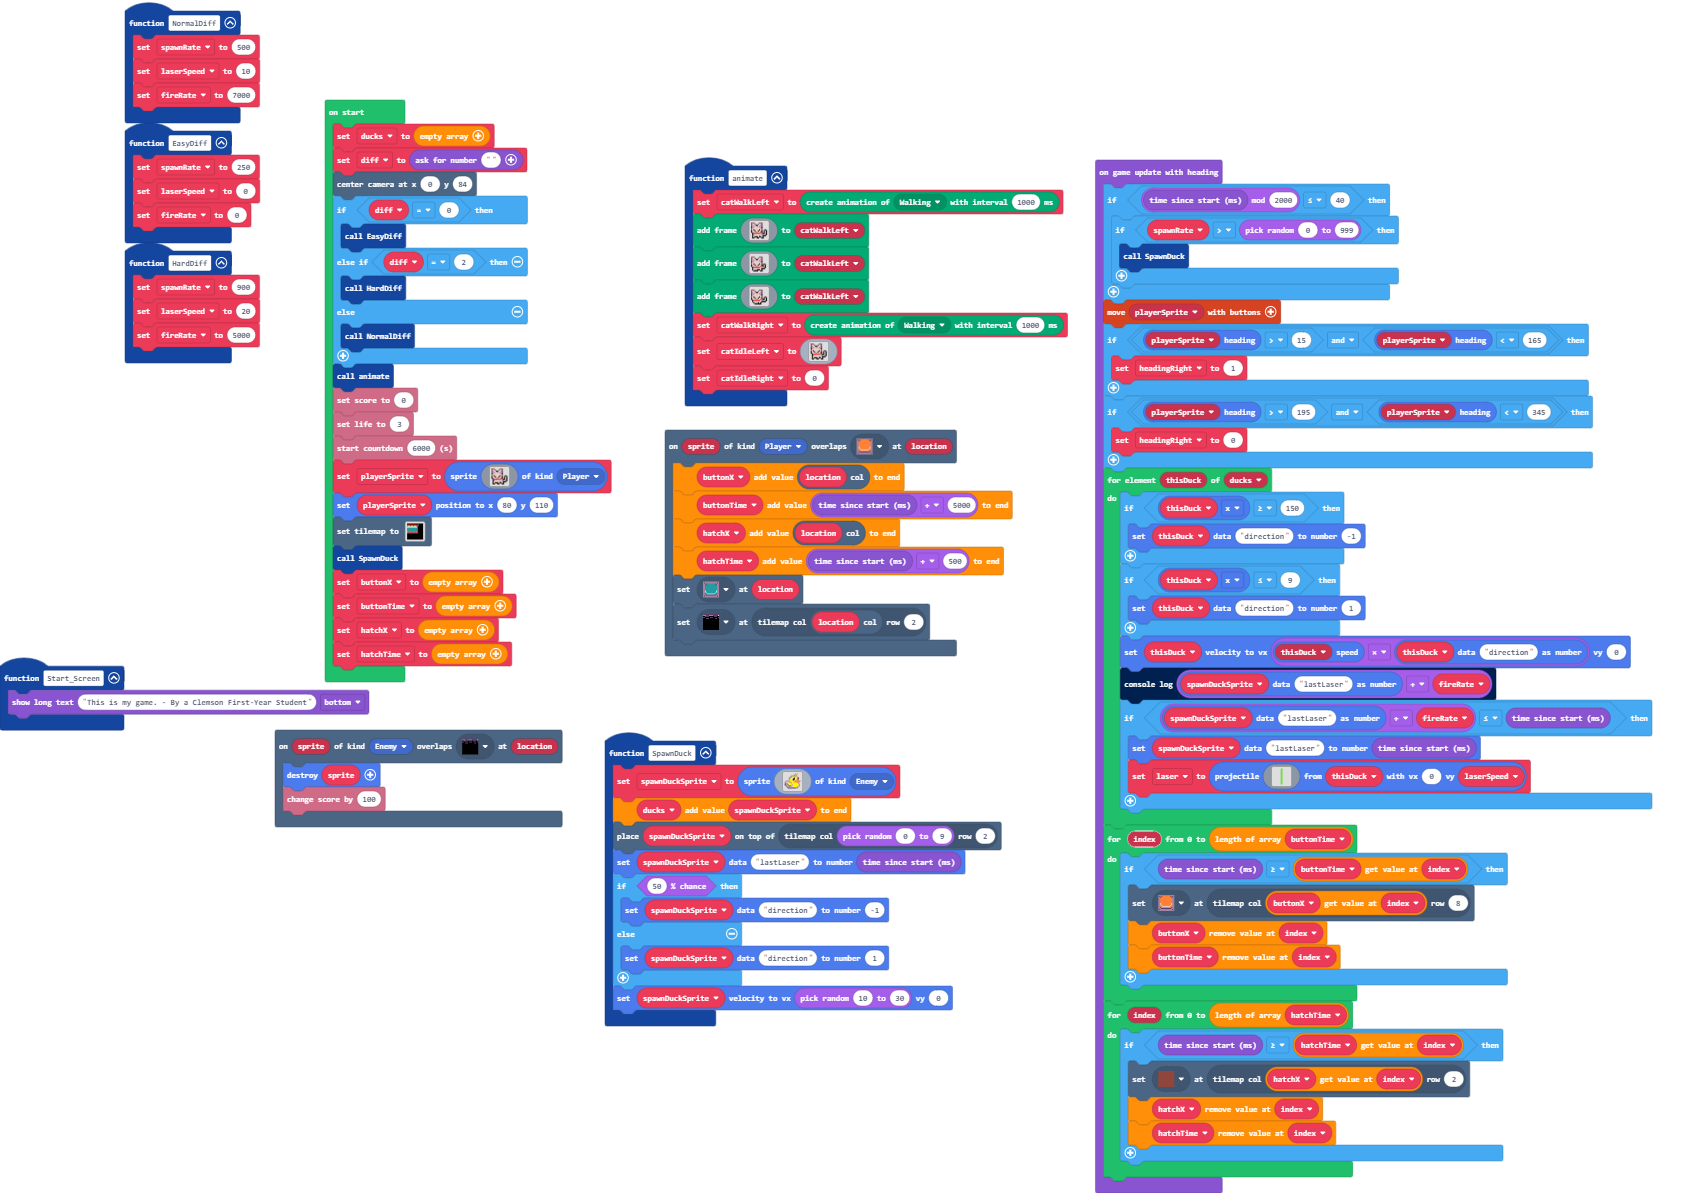
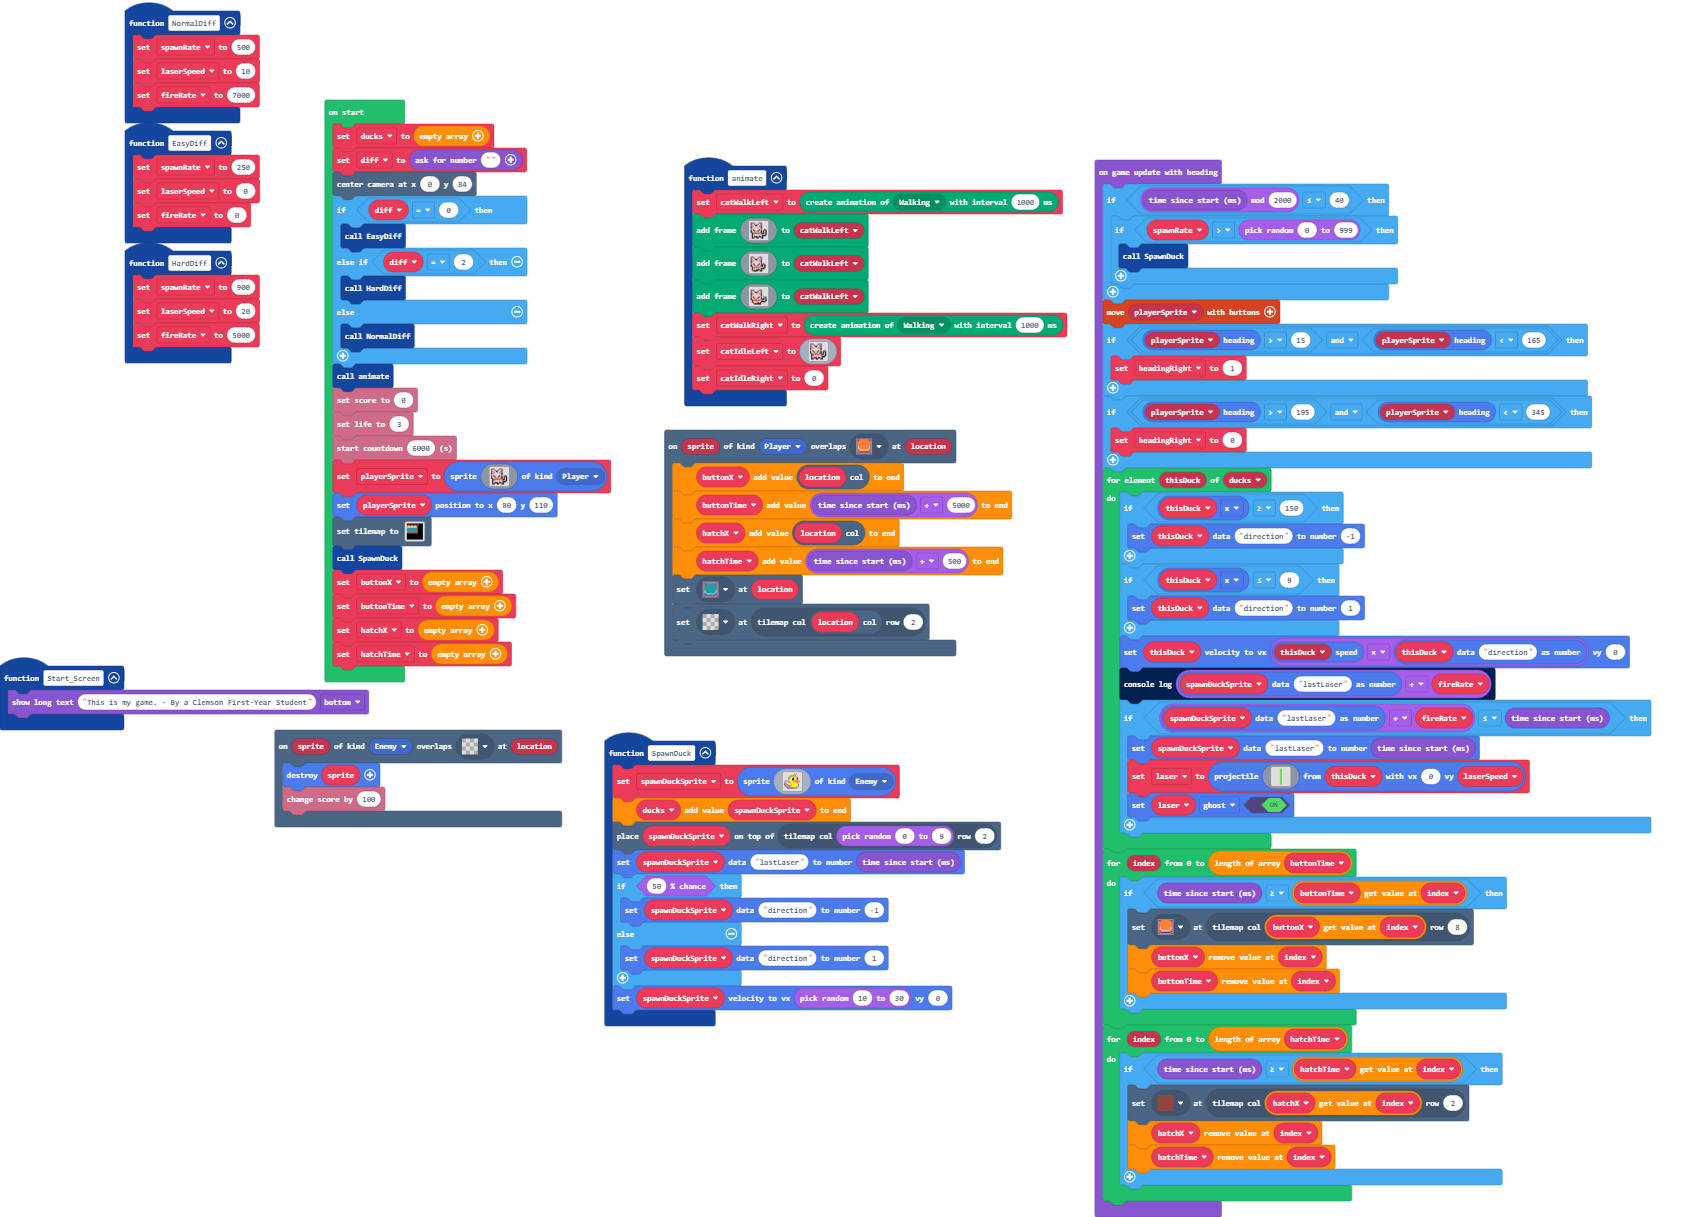
Figuring out lasers

Changed region(s): [[0.0, 0.062, 0.9648, 0.9925], [0.0622, 0.0, 0.1556, 0.3101]]

diff --git a/main.ts b/main.ts
@@ -3,6 +3,10 @@ enum ActionKind {
     Idle,
     Jumping
 }
+scene.onOverlapTile(SpriteKind.Enemy, sprites.dungeon.hazardHole, function (sprite, location) {
+    sprite.destroy()
+    info.changeScoreBy(100)
+})
 function animate () {
     catWalkLeft = animation.createAnimation(ActionKind.Walking, 1000)
     catWalkLeft.addAnimationFrame(img`
@@ -119,6 +123,7 @@ game.onGameUpdateWithHeading(function () {
                 . . . . . . . 7 7 . . . . . . . 
                 . . . . . . . 7 7 . . . . . . . 
                 `, thisDuck, 0, laserSpeed)
+            laser.setFlag(SpriteFlag.Ghost, true)
         }
     }
     for (let index = 0; index <= buttonTime.length; index++) {
@@ -170,10 +175,6 @@ function SpawnDuck () {
     }
     spawnDuckSprite.setVelocity(randint(10, 30), 0)
 }
-scene.onOverlapTile(SpriteKind.Enemy, sprites.dungeon.hazardHole, function (sprite, location) {
-    sprite.destroy()
-    info.changeScoreBy(100)
-})
 function Start_Screen () {
     game.showLongText("This is my game. - By a Clemson First-Year Student", DialogLayout.Bottom)
 }
